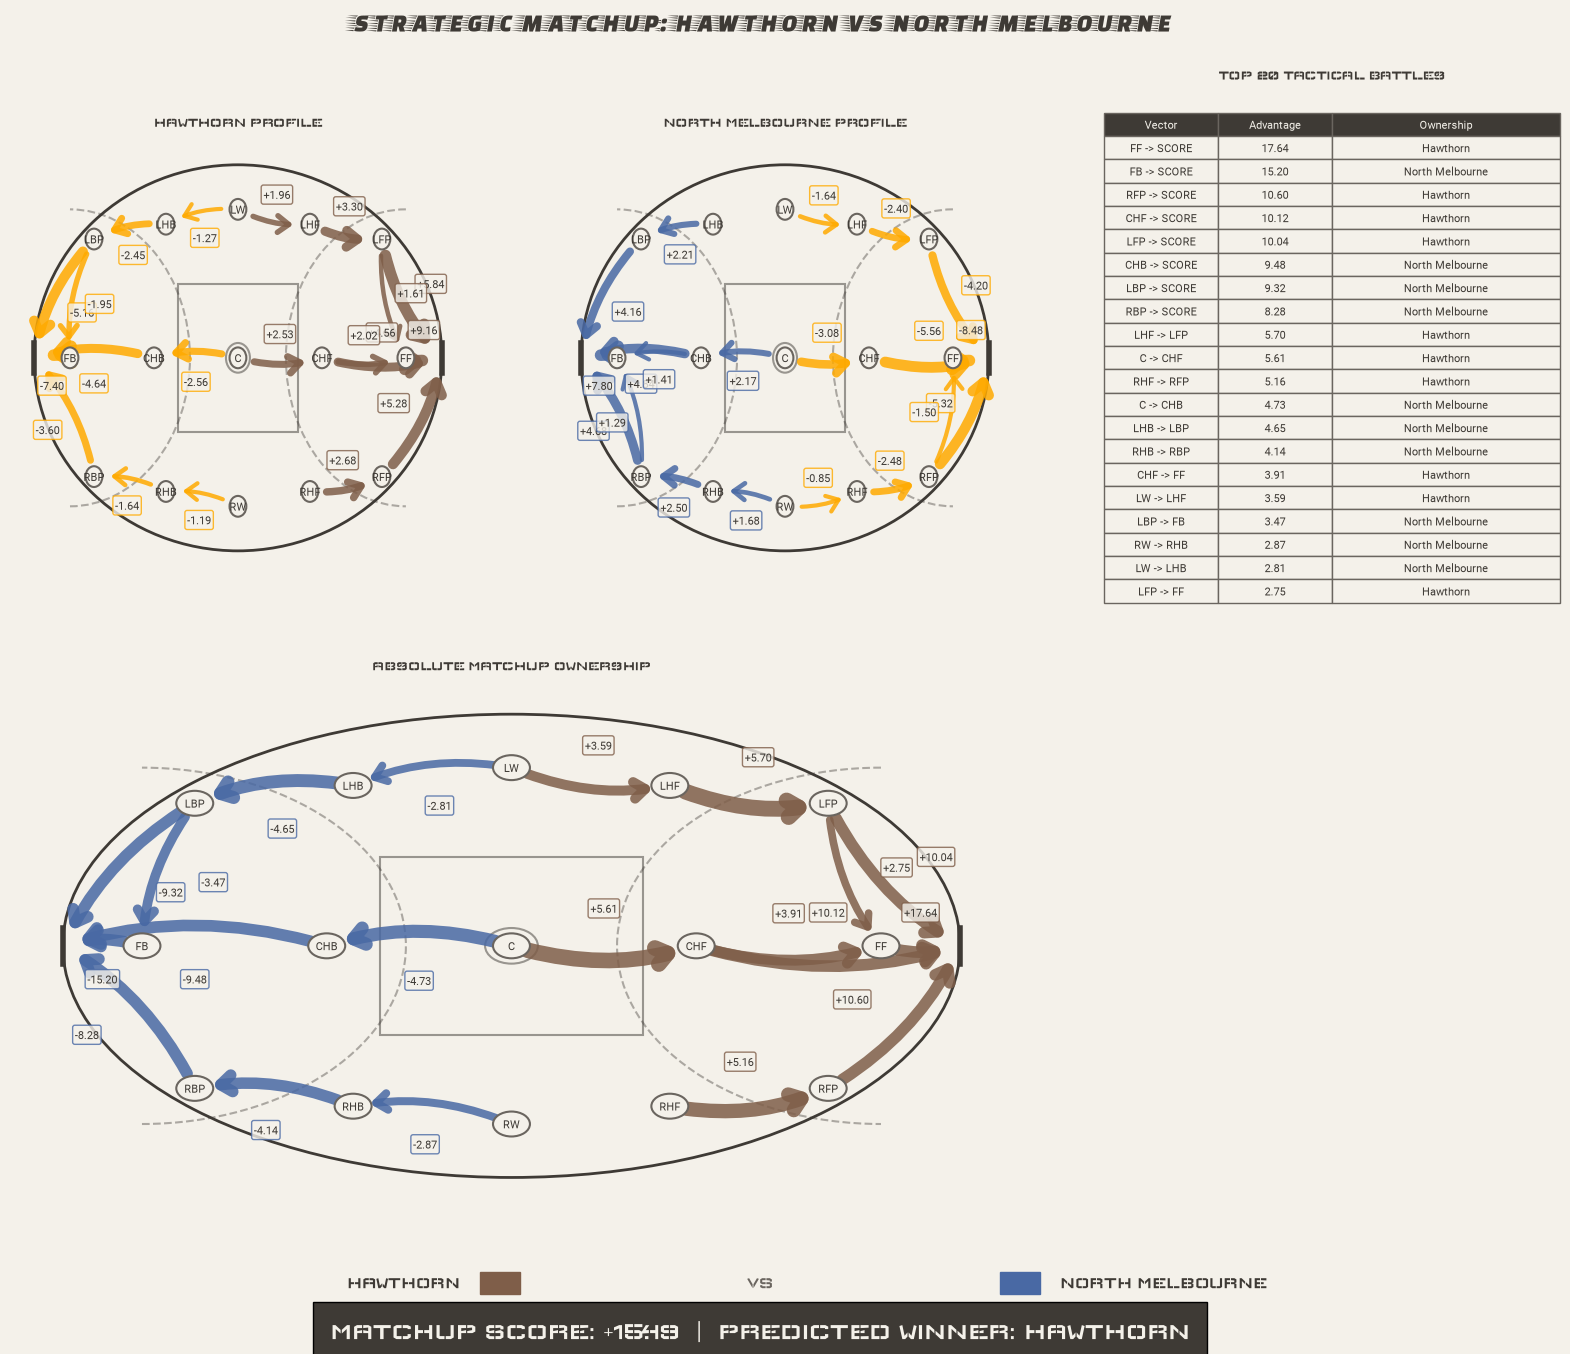
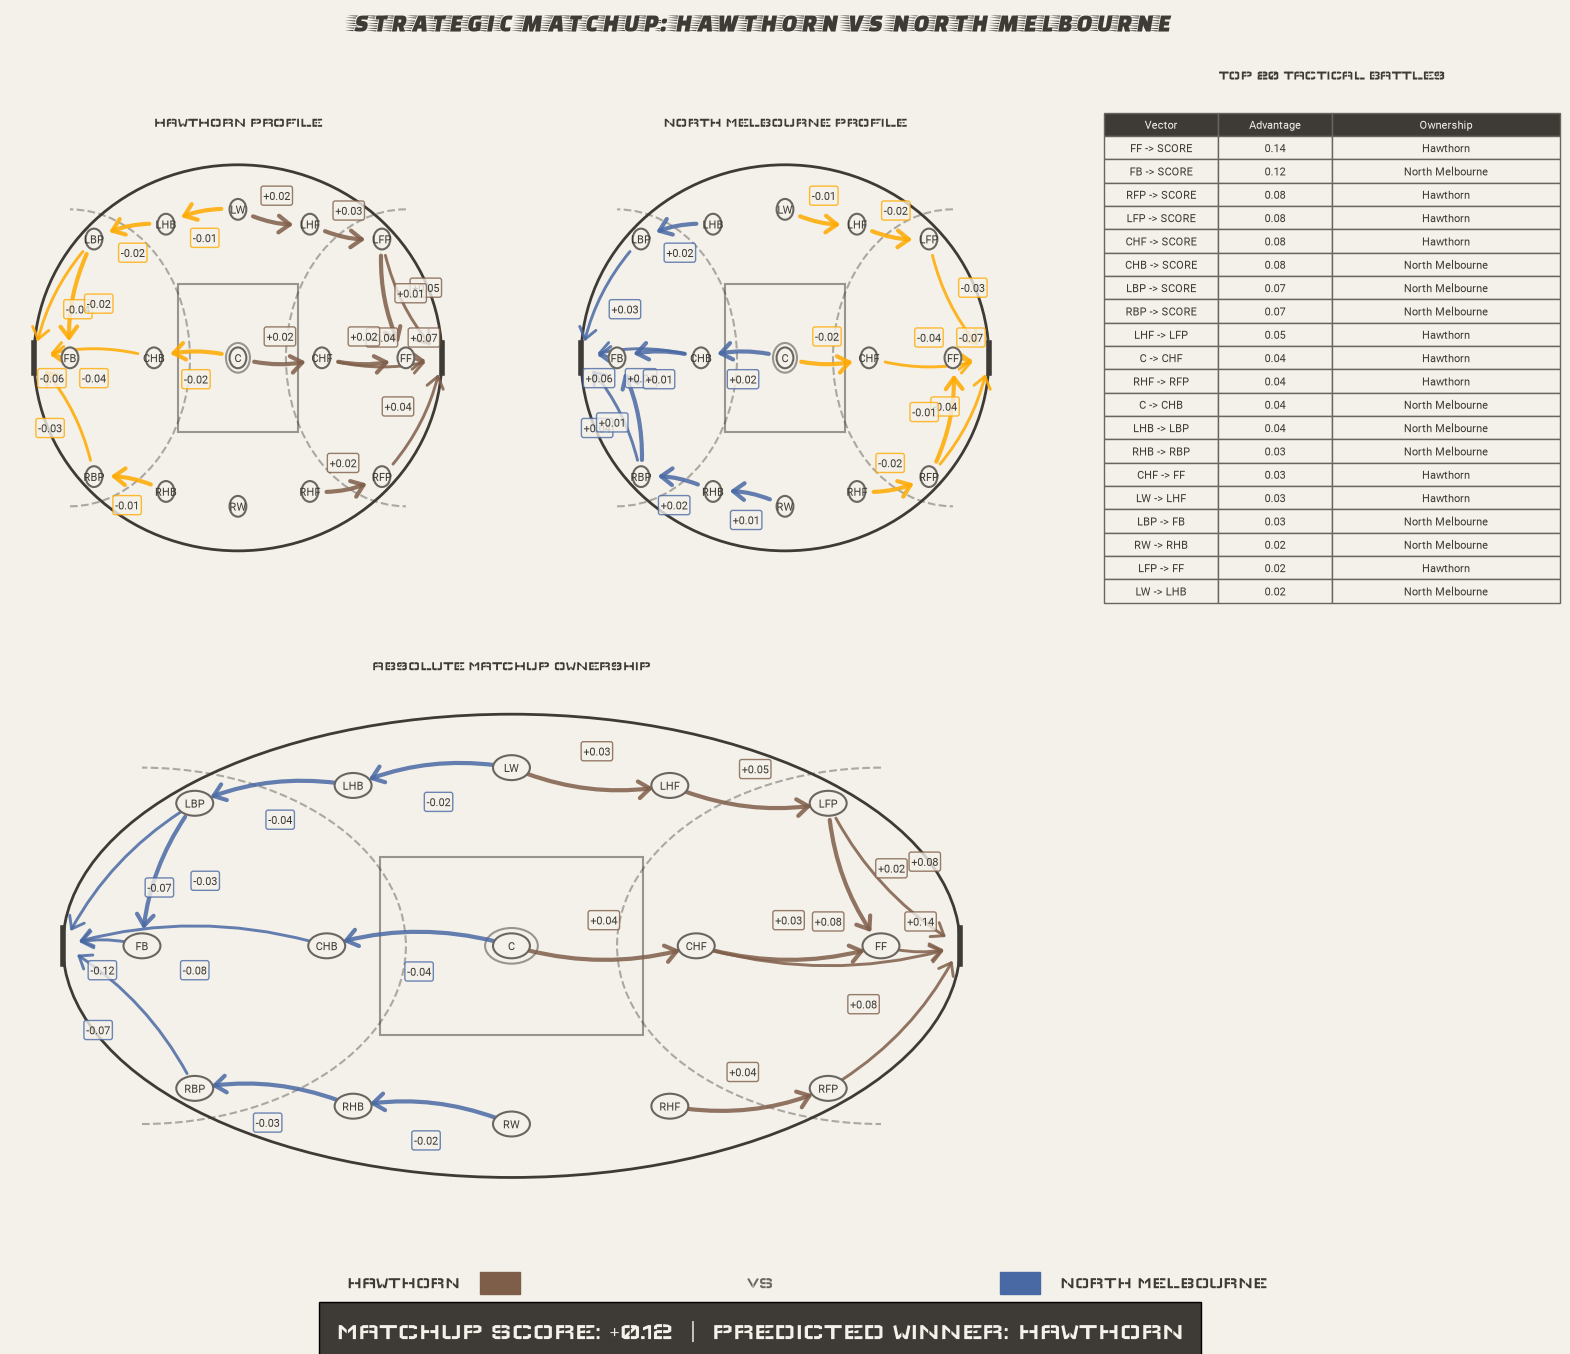
Extract physical_placement + regression tests (audit #19)
Placement math moved to a pure function (engine_core.physical_placement);
vector_renderer now calls it. 7 pytest tests lock in the LFP->FB fix:
away edges stay at their own zones, phantom LFP arrow impossible, team-frame
rotation correct. Renders verified deterministic (diff vs old AFTER render
was cold font-cache text noise only).

diff --git a/tests/test_placement.py b/tests/test_placement.py
@@ -1,0 +1,57 @@
+"""Regression tests for the LFP->FB rendering fix (audit, Aug 2026).
+
+Before the fix, away-owned edges in home-frame panels had their zone nodes
+rotated a second time, mirroring every away arrow across the field. The
+most visible symptom: Norf's RBP->SCORE (a short kick at the left end) was
+drawn starting from the home LFP zone position, spanning the pitch — the
+'impossible LFP->FB ball movement'.
+"""
+from engine_core import Graph, physical_placement
+
+
+def test_away_scoring_edge_stays_at_own_zone():
+    # FB->SCORE (away, home frame): the arrow must sit at the FB zone aiming
+    # at the away goal. Old code mirrored it to FF->AWAY_G.
+    assert physical_placement('A2', 'SCORE', is_away_edge=True, frame='home') \
+        == ('A2', 'AWAY_G')
+
+
+def test_phantom_lfp_arrow_regression():
+    # The exact reported case: RBP->SCORE (away) used to be drawn LFP->AWAY_G.
+    start, end = physical_placement('A3', 'SCORE', is_away_edge=True, frame='home')
+    assert (start, end) == ('A3', 'AWAY_G')
+    assert start != 'E1'  # must NOT start at the LFP zone position
+
+
+def test_home_scoring_edge_unchanged():
+    assert physical_placement('E2', 'SCORE', is_away_edge=False, frame='home') \
+        == ('E2', 'SCORE')
+
+
+def test_away_zone_edge_not_mirrored():
+    # C->CHB (away) must stay at C->CHB; old code drew it C->CHF (pointing
+    # the wrong way up the field).
+    assert physical_placement('C2', 'B2', is_away_edge=True, frame='home') \
+        == ('C2', 'B2')
+
+
+def test_team_frame_own_move_rotated_with_goal_swap():
+    # Away-team profile panel, own scoring edge: E2->SCORE (their FF->goal)
+    # lands at A2->AWAY_G on the home-oriented field.
+    assert physical_placement('E2', 'SCORE', is_away_edge=False, frame='team') \
+        == ('A2', 'AWAY_G')
+
+
+def test_team_frame_opponent_contribution_no_swap():
+    # Away-team profile panel, opponent (home-team) contribution: A2->SCORE
+    # (home FF->goal in away frame) lands at E2->SCORE — no goal swap.
+    assert physical_placement('A2', 'SCORE', is_away_edge=True, frame='team') \
+        == ('E2', 'SCORE')
+
+
+def test_rotation_is_involutive():
+    g = Graph("util")
+    names = [f"{c}{r}" for c in "ABCDE" for r in "123"]
+    for name in names:
+        assert g.rotate_node(g.rotate_node(name)) == name
+    assert g.rotate_node('SCORE') == 'SCORE'

diff --git a/Core/vector_renderer.py b/Core/vector_renderer.py
@@ -1,7 +1,7 @@
 import matplotlib.pyplot as plt
 from typing import Tuple, Dict
 from models import TransitionEdge
-from engine_core import Graph
+from engine_core import Graph, physical_placement
 
 class VectorRenderer:
     def __init__(self, node_positions: Dict[str, Tuple[float, float]], graph_helper: Graph, 
@@ -18,34 +18,10 @@ class VectorRenderer:
                       arrow_style: str = None, show_label: bool = True, max_lw: float = 12.0,
                       frame: str = 'home'):
         start, end = edge.source, edge.target
-        
-        # Physical placement (audit fix, Aug 2026):
-        #   frame='home' -> edge keys are already in the HOME team's frame
-        #       (delta matrices, home-team profiles). Draw zones as-is; only map
-        #       the goal endpoint to the away end for away-owned edges.
-        #   frame='team' -> edge keys are in the panel team's OWN frame (away-team
-        #       profile). Zones must be rotated 180 deg to land on the home-oriented
-        #       field; the goal maps to the goal the edge OWNER attacks (own move ->
-        #       AWAY_G, opponent contribution -> SCORE).
-        # Previously zones were rotated for every is_away_edge, which 180-deg
-        # mirrored away arrows in home-frame panels (the "LFP->FB" phantom).
-        if frame == 'team':
-            phys_start = self.graph_helper.rotate_node(start)
-            phys_end = self.graph_helper.rotate_node(end)
-        else:
-            phys_start = start
-            phys_end = end
 
-        # Map goals correctly between ends
-        if (frame == 'team' and not is_away_edge) or (frame == 'home' and is_away_edge):
-            if phys_start == 'SCORE':
-                phys_start = 'AWAY_G'
-            elif phys_start == 'AWAY_G':
-                phys_start = 'SCORE'
-            if phys_end == 'SCORE':
-                phys_end = 'AWAY_G'
-            elif phys_end == 'AWAY_G':
-                phys_end = 'SCORE'
+        # Placement math lives in engine_core.physical_placement (pure function,
+        # regression-tested in tests/test_placement.py — the LFP->FB fix).
+        phys_start, phys_end = physical_placement(start, end, is_away_edge, frame)
             
         p1 = self.node_positions.get(phys_start)
         p2 = self.node_positions.get(phys_end)

diff --git a/Core/engine_core.py b/Core/engine_core.py
@@ -63,6 +63,35 @@ class Graph:
                 matrix[TransitionEdge(name, target)] = score
         return matrix
 
+def physical_placement(start: str, end: str, is_away_edge: bool = False,
+                       frame: str = 'home') -> Tuple[str, str]:
+    """Pure placement math used by vector_renderer (audit E4 / LFP->FB fix).
+
+    frame='home' -> edge keys are already in the HOME team's frame (delta
+        matrices, home-team profiles): draw zones as-is; only map the goal
+        endpoint to the away end for away-owned edges.
+    frame='team' -> keys are in the panel team's OWN frame (away-team profile):
+        zones rotate 180 deg onto the home-oriented field; the goal maps to the
+        goal the edge OWNER attacks (own move -> AWAY_G, opponent -> SCORE).
+    """
+    g = Graph("util")
+    if frame == 'team':
+        phys_start = g.rotate_node(start)
+        phys_end = g.rotate_node(end)
+    else:
+        phys_start = start
+        phys_end = end
+    if (frame == 'team' and not is_away_edge) or (frame == 'home' and is_away_edge):
+        if phys_start == 'SCORE':
+            phys_start = 'AWAY_G'
+        elif phys_start == 'AWAY_G':
+            phys_start = 'SCORE'
+        if phys_end == 'SCORE':
+            phys_end = 'AWAY_G'
+        elif phys_end == 'AWAY_G':
+            phys_end = 'SCORE'
+    return phys_start, phys_end
+
 class MatchupEngine:
     @staticmethod
     def calculate_delta(team_a_matrix: Dict[TransitionEdge, float], 

diff --git a/tests/conftest.py b/tests/conftest.py
@@ -1,0 +1,5 @@
+import sys
+import os
+
+# Make Core/ importable as a flat module namespace (no packaging yet, #12).
+sys.path.insert(0, os.path.join(os.path.dirname(__file__), '..', 'Core'))
